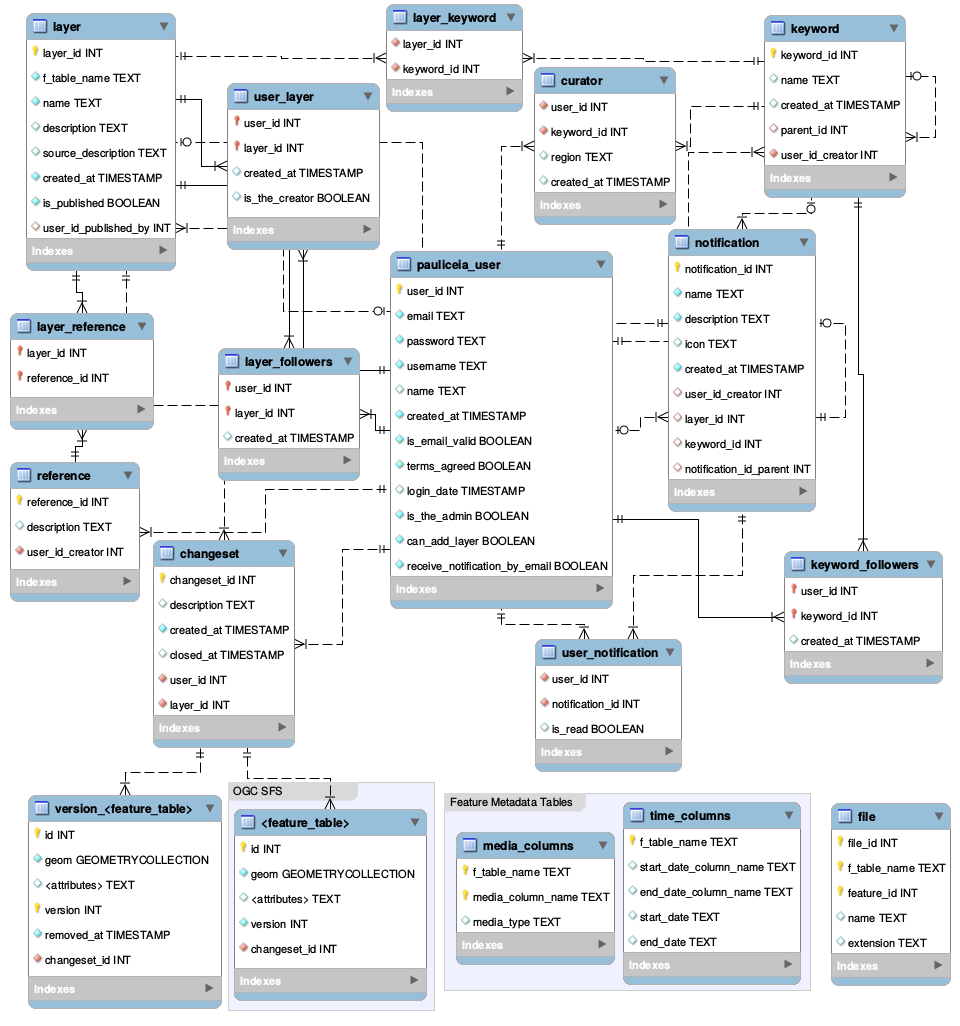
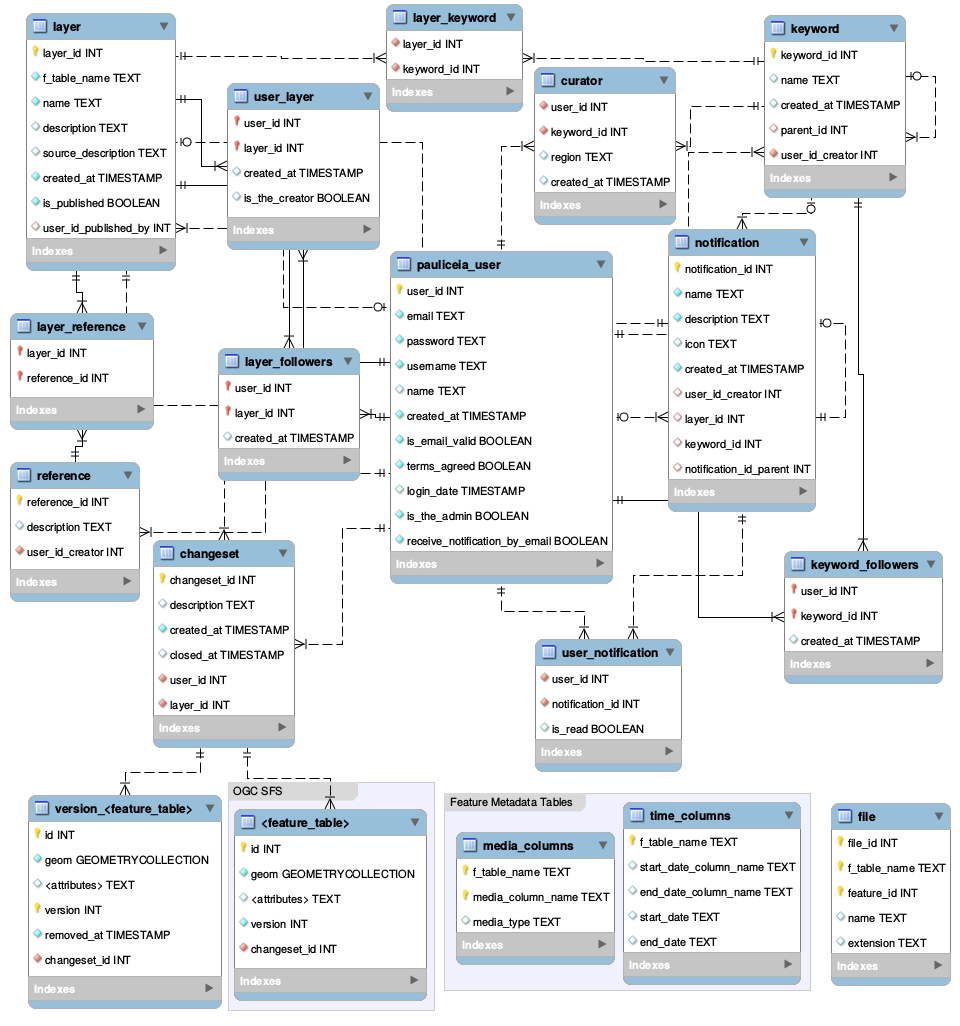
Removed the can_add_layer flag

diff --git a/tests/test_api_user.py b/tests/test_api_user.py
@@ -33,7 +33,7 @@ class TestAPIUser(TestCase):
                     'type': 'User',
                     'properties': {'receive_notification_by_email': False, 'terms_agreed': True,
                                    'username': 'admin', 'user_id': 1001, 'email': 'admin@admin.com',
-                                   'name': 'Administrator', 'is_the_admin': True, 'can_add_layer': True,
+                                   'name': 'Administrator', 'is_the_admin': True,
                                    'created_at': '2017-01-01 00:00:00', 'login_date': '2017-01-01T00:00:00',
                                    'is_email_valid': True}
                 },
@@ -41,7 +41,7 @@ class TestAPIUser(TestCase):
                     'type': 'User',
                     'properties': {'receive_notification_by_email': False, 'terms_agreed': True,
                                    'username': 'rodrigo', 'user_id': 1002, 'email': 'rodrigo@admin.com',
-                                   'name': 'Rodrigo', 'is_the_admin': True, 'can_add_layer': True,
+                                   'name': 'Rodrigo', 'is_the_admin': True,
                                    'created_at': '2017-03-03 00:00:00', 'login_date': '2017-03-03T00:00:00',
                                    'is_email_valid': True}
                 },
@@ -49,7 +49,7 @@ class TestAPIUser(TestCase):
                     'type': 'User',
                     'properties': {'receive_notification_by_email': False, 'terms_agreed': True,
                                    'username': 'miguel', 'user_id': 1003, 'email': 'miguel@admin.com',
-                                   'name': 'Miguel', 'is_the_admin': True, 'can_add_layer': True,
+                                   'name': 'Miguel', 'is_the_admin': True,
                                    'created_at': '2017-05-08 00:00:00', 'login_date': '2017-05-08T00:00:00',
                                    'is_email_valid': False}
                 },
@@ -57,7 +57,7 @@ class TestAPIUser(TestCase):
                     'type': 'User',
                     'properties': {'receive_notification_by_email': True, 'terms_agreed': False,
                                    'username': 'rafael', 'user_id': 1004, 'email': 'rafael@admin.com',
-                                   'name': 'Rafael', 'is_the_admin': False, 'can_add_layer': True,
+                                   'name': 'Rafael', 'is_the_admin': False,
                                    'created_at': '2017-06-09 00:00:00', 'login_date': '2017-06-09T00:00:00',
                                    'is_email_valid': True}
                 },
@@ -65,7 +65,7 @@ class TestAPIUser(TestCase):
                     'type': 'User',
                     'properties': {'receive_notification_by_email': True, 'terms_agreed': False,
                                    'username': 'gabriel', 'user_id': 1005, 'email': 'gabriel@admin.com',
-                                   'name': 'Gabriel', 'is_the_admin': False, 'can_add_layer': True,
+                                   'name': 'Gabriel', 'is_the_admin': False,
                                    'created_at': '2017-09-20 00:00:00', 'login_date': '2017-09-20T00:00:00',
                                    'is_email_valid': False}
                 },
@@ -73,7 +73,7 @@ class TestAPIUser(TestCase):
                     'type': 'User',
                     'properties': {'receive_notification_by_email': True, 'terms_agreed': False,
                                    'username': 'fernanda', 'user_id': 1006, 'email': 'fernanda@gmail.com',
-                                   'name': None, 'is_the_admin': False, 'can_add_layer': False,
+                                   'name': None, 'is_the_admin': False,
                                    'created_at': '2017-01-19 00:00:00', 'login_date': '2017-01-19T00:00:00',
                                    'is_email_valid': True}
                 },
@@ -81,7 +81,7 @@ class TestAPIUser(TestCase):
                     'type': 'User',
                     'properties': {'receive_notification_by_email': False, 'terms_agreed': True,
                                    'username': 'ana', 'user_id': 1007, 'email': 'ana@gmail.com',
-                                   'name': None, 'is_the_admin': False, 'can_add_layer': False,
+                                   'name': None, 'is_the_admin': False,
                                    'created_at': '2017-01-18 00:00:00', 'login_date': '2017-01-18T00:00:00',
                                    'is_email_valid': False}
                 },
@@ -89,7 +89,7 @@ class TestAPIUser(TestCase):
                     'type': 'User',
                     'properties': {'receive_notification_by_email': False, 'terms_agreed': False,
                                    'username': 'bea', 'user_id': 1008, 'email': 'bea@gmail.com',
-                                   'name': None, 'is_the_admin': False, 'can_add_layer': False,
+                                   'name': None, 'is_the_admin': False, 
                                    'created_at': '2017-01-30 00:00:00', 'login_date': '2017-01-30T00:00:00',
                                    'is_email_valid': False}
                 }
@@ -104,7 +104,7 @@ class TestAPIUser(TestCase):
                 {'properties': {'name': 'Rodrigo', 'login_date': '2017-03-03T00:00:00', 'terms_agreed': True,
                                 'receive_notification_by_email': False, 'user_id': 1002, 'username': 'rodrigo',
                                 'is_email_valid': True, 'is_the_admin': True, 'email': 'rodrigo@admin.com',
-                                'can_add_layer': True, 'created_at': '2017-03-03 00:00:00'},
+                                 'created_at': '2017-03-03 00:00:00'},
                  'type': 'User'}
             ],
             'type': 'FeatureCollection'
@@ -120,7 +120,7 @@ class TestAPIUser(TestCase):
                     'type': 'User',
                     'properties': {'receive_notification_by_email': False, 'terms_agreed': True,
                                    'username': 'miguel', 'user_id': 1003, 'email': 'miguel@admin.com',
-                                   'name': 'Miguel', 'is_the_admin': True, 'can_add_layer': True,
+                                   'name': 'Miguel', 'is_the_admin': True,
                                    'created_at': '2017-05-08 00:00:00', 'login_date': '2017-05-08T00:00:00',
                                    'is_email_valid': False}
                 },
@@ -128,7 +128,7 @@ class TestAPIUser(TestCase):
                     'type': 'User',
                     'properties': {'receive_notification_by_email': True, 'terms_agreed': False,
                                    'username': 'rafael', 'user_id': 1004, 'email': 'rafael@admin.com',
-                                   'name': 'Rafael', 'is_the_admin': False, 'can_add_layer': True,
+                                   'name': 'Rafael', 'is_the_admin': False,
                                    'created_at': '2017-06-09 00:00:00', 'login_date': '2017-06-09T00:00:00',
                                    'is_email_valid': True}
                 },
@@ -136,7 +136,7 @@ class TestAPIUser(TestCase):
                     'type': 'User',
                     'properties': {'receive_notification_by_email': True, 'terms_agreed': False,
                                    'username': 'gabriel', 'user_id': 1005, 'email': 'gabriel@admin.com',
-                                   'name': 'Gabriel', 'is_the_admin': False, 'can_add_layer': True,
+                                   'name': 'Gabriel', 'is_the_admin': False,
                                    'created_at': '2017-09-20 00:00:00', 'login_date': '2017-09-20T00:00:00',
                                    'is_email_valid': False}
                 },
@@ -153,7 +153,7 @@ class TestAPIUser(TestCase):
                     'type': 'User',
                     'properties': {'receive_notification_by_email': True, 'terms_agreed': False,
                                    'username': 'rafael', 'user_id': 1004, 'email': 'rafael@admin.com',
-                                   'name': 'Rafael', 'is_the_admin': False, 'can_add_layer': True,
+                                   'name': 'Rafael', 'is_the_admin': False,
                                    'created_at': '2017-06-09 00:00:00', 'login_date': '2017-06-09T00:00:00',
                                    'is_email_valid': True}
                 }
@@ -170,7 +170,7 @@ class TestAPIUser(TestCase):
                     'type': 'User',
                     'properties': {'receive_notification_by_email': False, 'terms_agreed': True,
                                    'username': 'miguel', 'user_id': 1003, 'email': 'miguel@admin.com',
-                                   'name': 'Miguel', 'is_the_admin': True, 'can_add_layer': True,
+                                   'name': 'Miguel', 'is_the_admin': True,
                                    'created_at': '2017-05-08 00:00:00', 'login_date': '2017-05-08T00:00:00',
                                    'is_email_valid': False}
                 }
@@ -264,7 +264,7 @@ class TestAPIUserErrors(TestCase):
         resource = {
             'type': 'User',
             'properties': {'email': "rodrigo@admin.com", 'password': 'roger', 'username': 'roger', 'name': 'Roger',
-                           'terms_agreed': True, 'can_add_layer': True, 'receive_notification_by_email': False}
+                           'terms_agreed': True,  'receive_notification_by_email': False}
         }
 
         self.tester.api_user_error_create_400_bad_request(resource)
@@ -273,7 +273,7 @@ class TestAPIUserErrors(TestCase):
         resource = {
             'type': 'User',
             'properties': {'username': 'rodrigo', 'email': "new@email.com", 'password': 'roger', 'name': 'Roger',
-                           'terms_agreed': True, 'can_add_layer': True, 'receive_notification_by_email': False}
+                           'terms_agreed': True,  'receive_notification_by_email': False}
         }
 
         self.tester.api_user_error_create_400_bad_request(resource)
@@ -283,7 +283,7 @@ class TestAPIUserErrors(TestCase):
         feature = {
             'type': 'User',
             'properties': {'email': "new@email.com", 'password': 'roger', 'name': 'Roger',
-                           'can_add_layer': True, 'receive_notification_by_email': False}
+                            'receive_notification_by_email': False}
         }
 
         self.tester.api_user_error_create_400_bad_request(feature)
@@ -319,7 +319,7 @@ class TestAPIUserErrors(TestCase):
         feature = {
             'type': 'User',
             'properties': {'user_id': -1, 'email': email, 'password': 'roger', 'username': 'roger', 'name': 'Roger',
-                           'terms_agreed': True, 'can_add_layer': True, 'receive_notification_by_email': False}
+                           'terms_agreed': True, 'receive_notification_by_email': False}
         }
 
         feature = self.tester.api_user_create(feature)

diff --git a/models/db_connection.py b/models/db_connection.py
@@ -1723,7 +1723,6 @@ class PGSQLConnection:
                         'terms_agreed',   terms_agreed,                        
                         'login_date',     login_date,
                         'is_the_admin',   is_the_admin,
-                        'can_add_layer',  can_add_layer,
                         'receive_notification_by_email',   receive_notification_by_email 
                     )
                 ))
